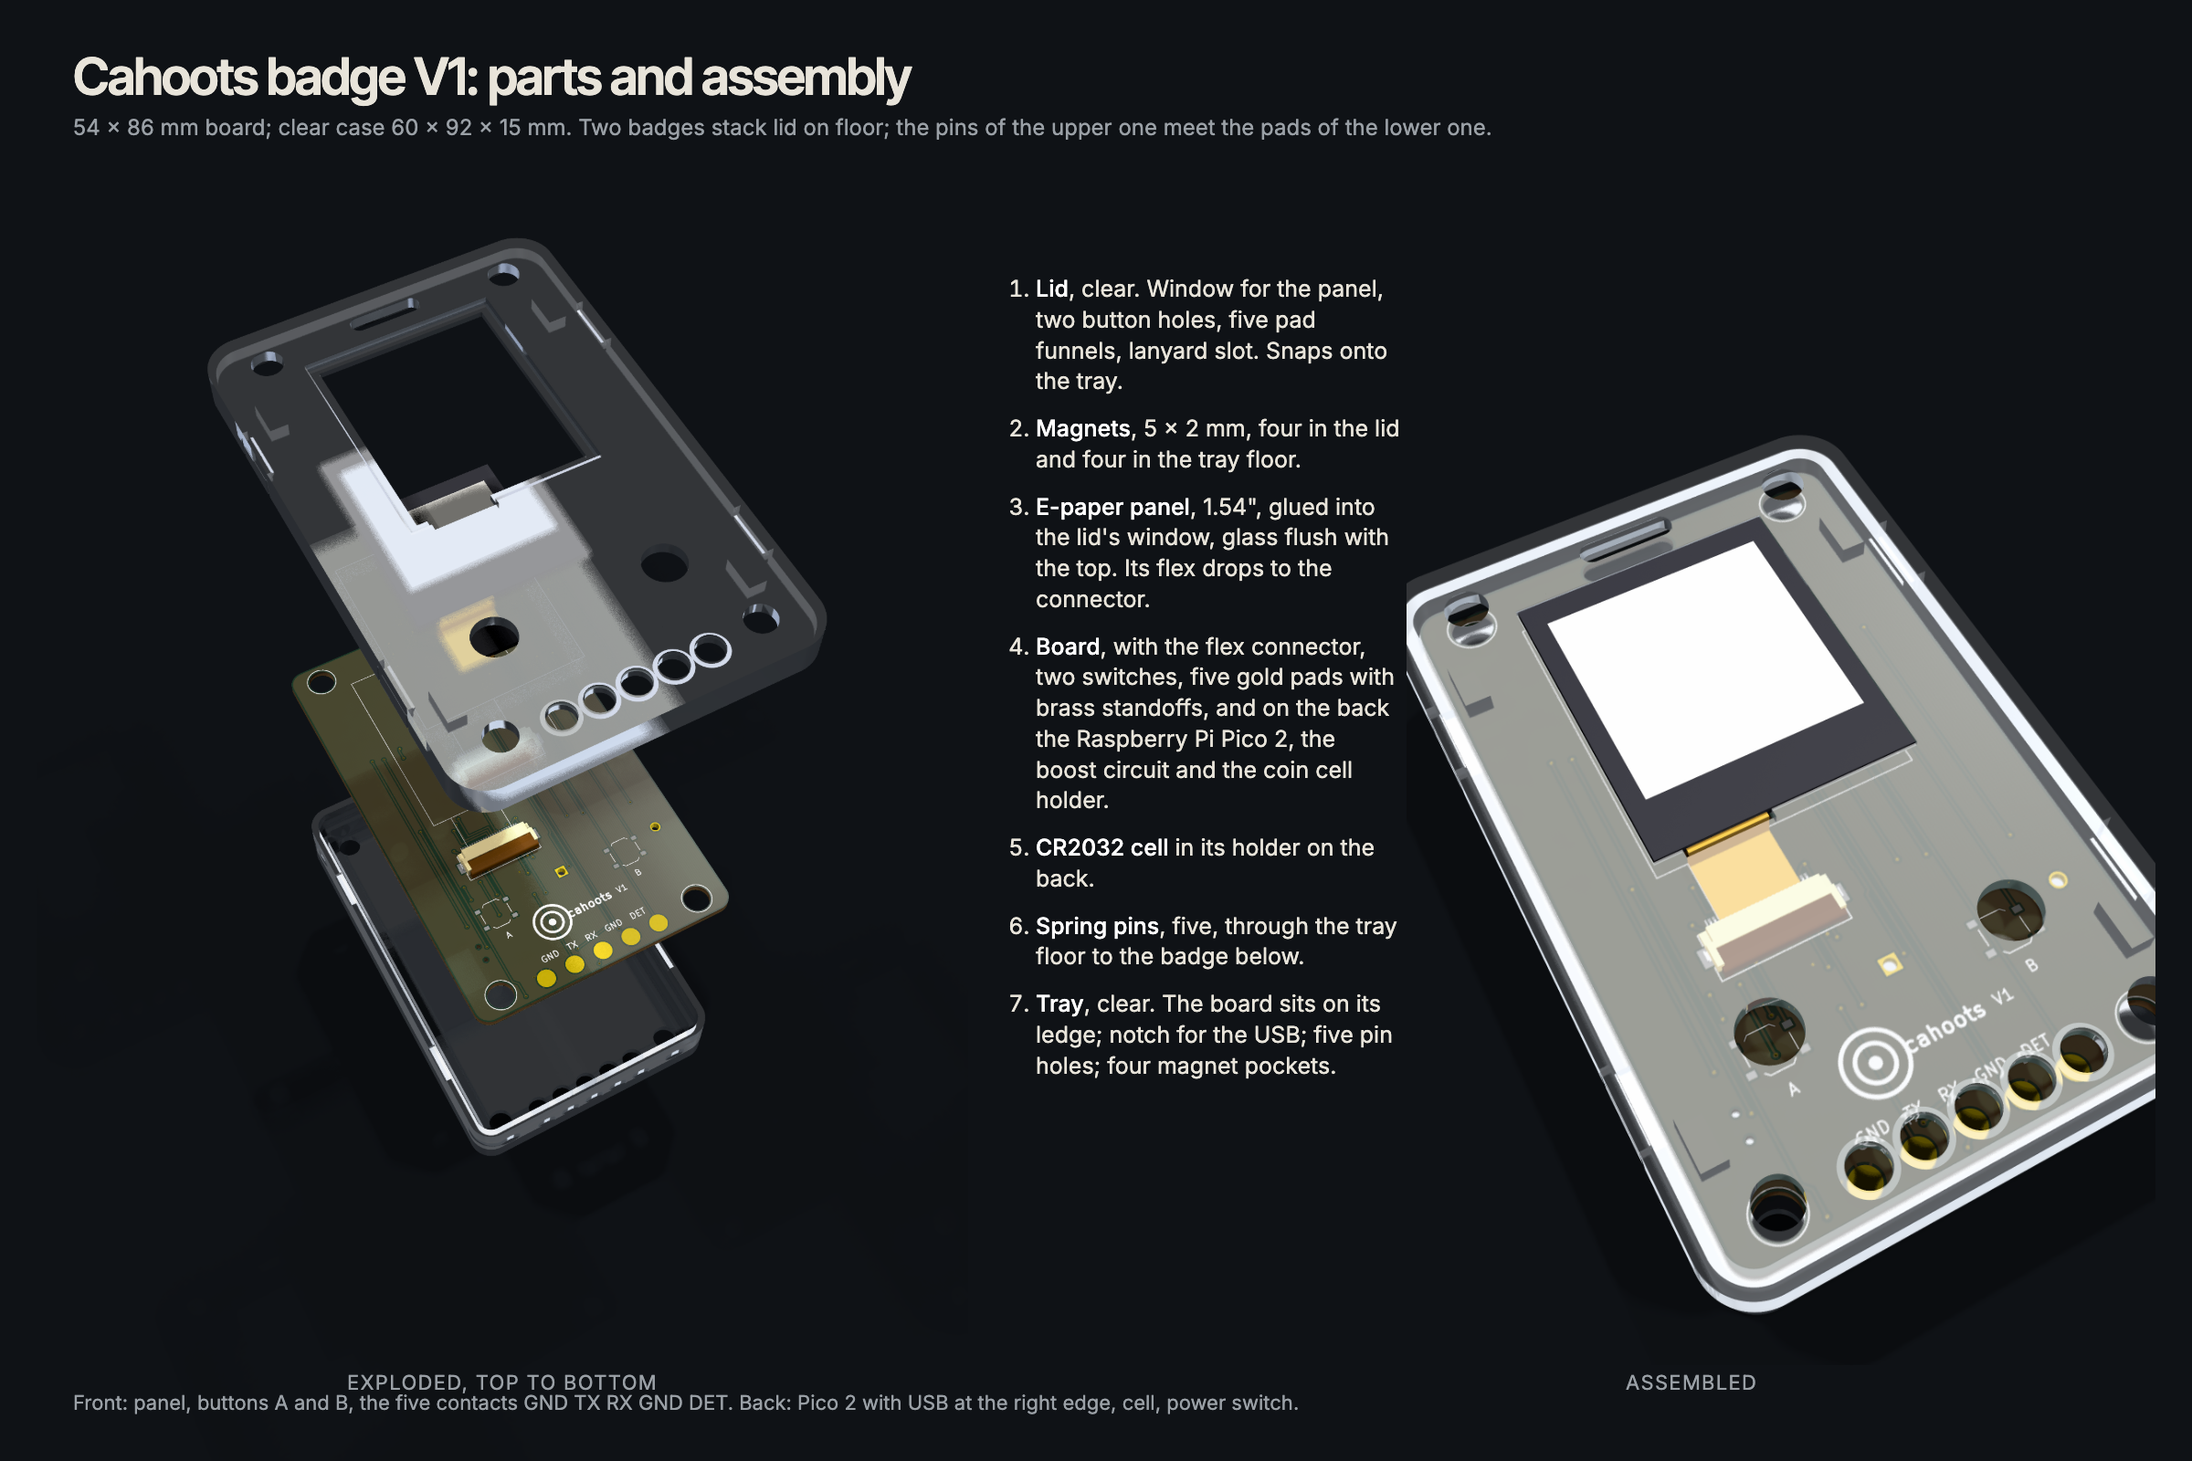
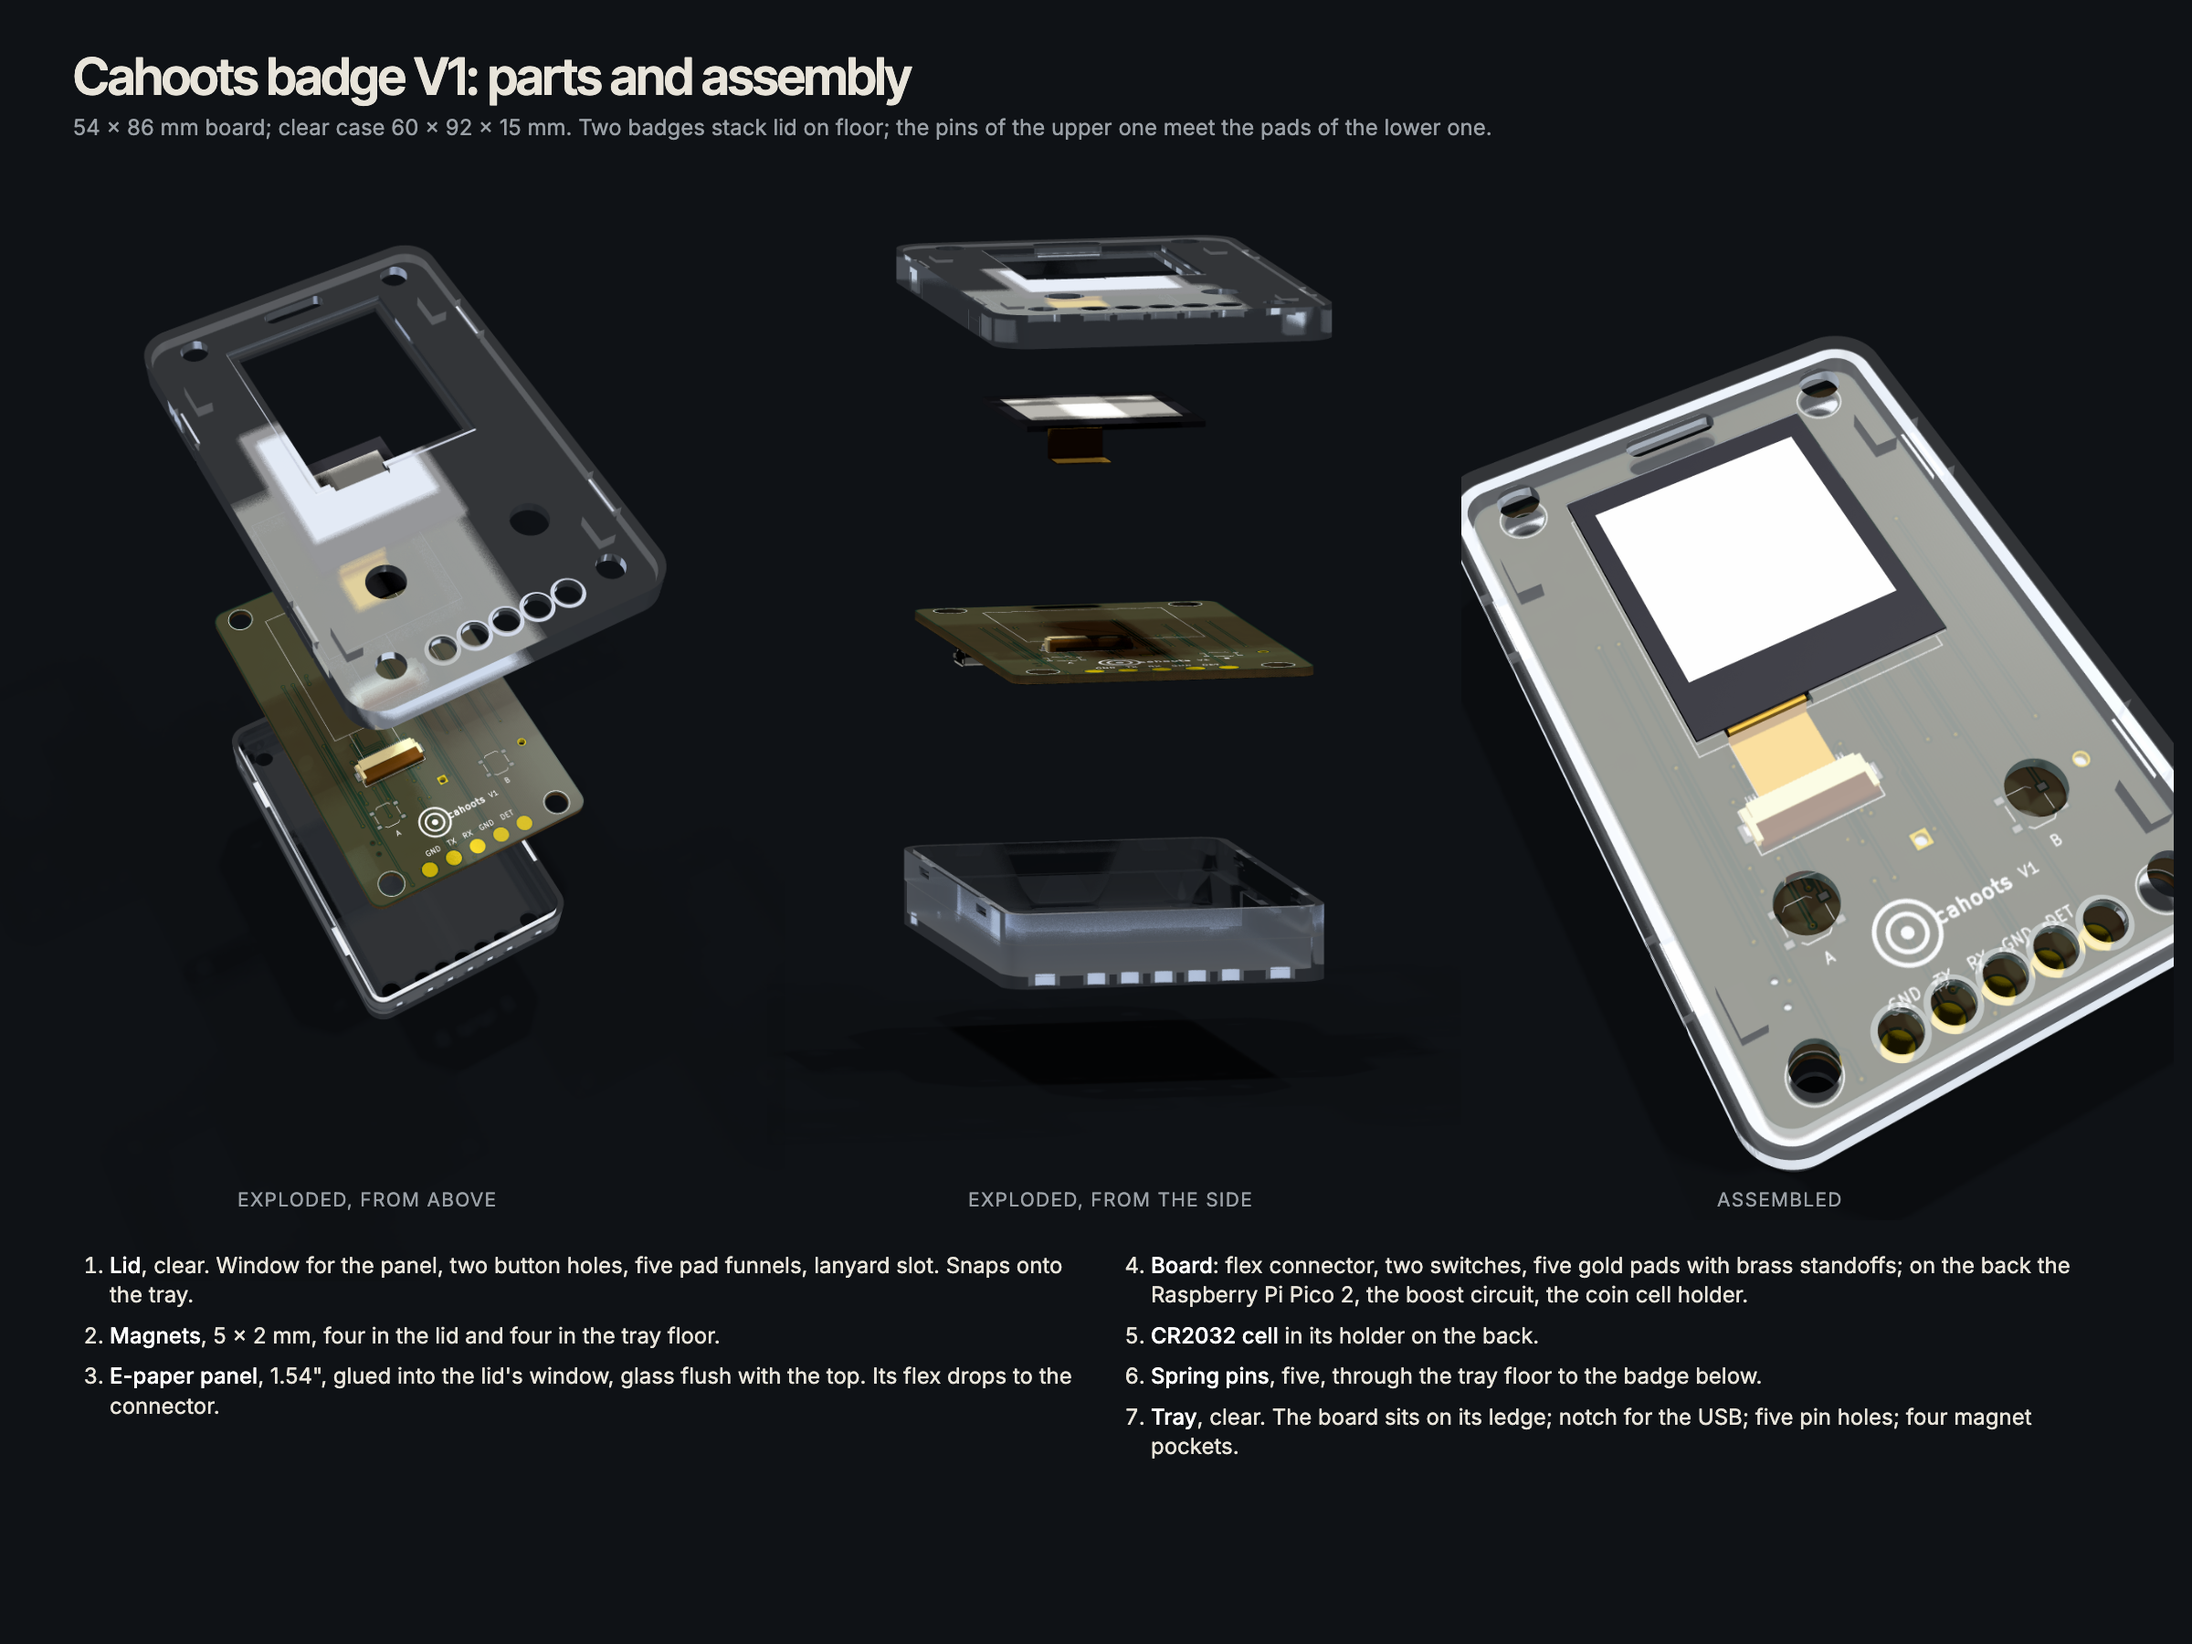
V1 assembly sheet: a second exploded view from the side, orthographic, with the list below

diff --git a/hardware/v1/explode.py b/hardware/v1/explode.py
@@ -36,6 +36,8 @@ for i in range(1, 6):
     add_model(f"K{i}", "pin.wrl", 0.0)
     add_model(f"P{i}", "standoff.wrl", 0.0)
 
+CAMERA = {"assembled": ("-30,0,28", "0.72", True), "exploded": ("-30,0,28", "0.33", True), "exploded-side": ("-82,0,12", "0.50", False)}
+
 def variant(name, lift):
     """Write a copy of the board with each part group lifted by lift[group] mm, and render it."""
     for fp in board.GetFootprints():
@@ -51,7 +53,8 @@ def variant(name, lift):
     path = os.path.join(HERE, f"v1-{name}.kicad_pcb")
     board.Save(path)
     out = os.path.join(tempfile.gettempdir(), f"cahoots-{name}.png")
-    subprocess.run([CLI, "pcb", "render", "--side", "top", "--perspective", "--rotate", "-30,0,28", "--zoom", "0.33" if name == "exploded" else "0.72",
+    rot, zoom, persp = CAMERA[name]
+    subprocess.run([CLI, "pcb", "render", "--side", "top"] + (["--perspective"] if persp else []) + ["--rotate", rot, "--zoom", zoom,
                     "--quality", "high", "--width", "1800", "--height", "2600", "--background", "transparent", "--floor", "-o", out, path],
                    check=True, capture_output=True)
     os.remove(path)
@@ -64,46 +67,48 @@ for fp in board.GetFootprints():
 
 assembled = variant("assembled", {})
 # world-space lifts, up positive; parts under the board go down
-exploded = variant("exploded", {"lid": 84, "magnet_lid": 104, "panel": 44, "standoff": 12, "cell": -26, "pin": -44, "magnet_tray": -88, "tray": -64})
+LIFT = {"lid": 84, "magnet_lid": 104, "panel": 44, "standoff": 12, "cell": -26, "pin": -44, "magnet_tray": -88, "tray": -64}
+exploded = variant("exploded", LIFT)
+side = variant("exploded-side", {"lid": 58, "magnet_lid": 72, "panel": 32, "standoff": 10, "cell": -18, "pin": -32, "magnet_tray": -62, "tray": -46})
 
 html = f'''<!doctype html><meta charset="utf-8">
 <link href="https://fonts.googleapis.com/css2?family=Inter+Tight:wght@600&family=Inter:wght@400;500&display=swap" rel="stylesheet">
 <style>
 html,body{{margin:0;background:#0b0d10}}
-.sheet{{position:relative;width:2400px;height:1600px;background:#0f1216;color:#E8E4DA;font:400 26px/1.35 Inter,system-ui,sans-serif}}
+.sheet{{position:relative;width:2400px;height:1800px;background:#0f1216;color:#E8E4DA;font:400 24px/1.35 Inter,system-ui,sans-serif}}
 h1{{position:absolute;left:80px;top:56px;margin:0;font:600 56px/1 "Inter Tight",sans-serif;letter-spacing:-0.03em}}
 .sub{{position:absolute;left:80px;top:124px;color:#9aa0a6;font-size:24px}}
 img{{position:absolute}}
-.ex{{left:40px;top:120px;width:1020px}}
-.as{{left:1540px;top:300px;width:820px}}
-.cap{{position:absolute;color:#9aa0a6;font-size:22px;letter-spacing:0.06em;text-transform:uppercase}}
-ol{{position:absolute;left:1090px;top:300px;margin:0;padding:0 0 0 44px;width:400px;font-size:25px}}
-ol li{{margin:0 0 18px}} ol b{{color:#fff;font-weight:500}}
-.foot{{position:absolute;left:80px;bottom:48px;color:#9aa0a6;font-size:22px}}
+.ex{{left:0px;top:150px;width:860px}}
+.side{{left:840px;top:150px;width:760px}}
+.as{{left:1600px;top:200px;width:780px}}
+.cap{{position:absolute;color:#9aa0a6;font-size:21px;letter-spacing:0.06em;text-transform:uppercase;top:1300px}}
+ol{{position:absolute;left:80px;top:1370px;margin:0;padding:0 0 0 40px;width:2200px;font-size:24px;columns:2;column-gap:80px}}
+ol li{{margin:0 0 12px;break-inside:avoid}} ol b{{color:#fff;font-weight:500}}
 </style>
 <div class="sheet">
 <h1>Cahoots badge V1: parts and assembly</h1>
 <div class="sub">54 × 86 mm board; clear case 60 × 92 × 15 mm. Two badges stack lid on floor; the pins of the upper one meet the pads of the lower one.</div>
-<img class="ex" src="{exploded}"><div class="cap" style="left:380px;top:1500px">Exploded, top to bottom</div>
+<img class="ex" src="{exploded}"><div class="cap" style="left:260px">Exploded, from above</div>
+<img class="side" src="{side}"><div class="cap" style="left:1060px">Exploded, from the side</div>
+<img class="as" src="{assembled}"><div class="cap" style="left:1880px">Assembled</div>
 <ol>
 <li><b>Lid</b>, clear. Window for the panel, two button holes, five pad funnels, lanyard slot. Snaps onto the tray.</li>
 <li><b>Magnets</b>, 5 × 2 mm, four in the lid and four in the tray floor.</li>
 <li><b>E-paper panel</b>, 1.54", glued into the lid's window, glass flush with the top. Its flex drops to the connector.</li>
-<li><b>Board</b>, with the flex connector, two switches, five gold pads with brass standoffs, and on the back the Raspberry Pi Pico 2, the boost circuit and the coin cell holder.</li>
+<li><b>Board</b>: flex connector, two switches, five gold pads with brass standoffs; on the back the Raspberry Pi Pico 2, the boost circuit, the coin cell holder.</li>
 <li><b>CR2032 cell</b> in its holder on the back.</li>
 <li><b>Spring pins</b>, five, through the tray floor to the badge below.</li>
 <li><b>Tray</b>, clear. The board sits on its ledge; notch for the USB; five pin holes; four magnet pockets.</li>
 </ol>
-<img class="as" src="{assembled}"><div class="cap" style="left:1780px;top:1500px">Assembled</div>
-<div class="foot">Front: panel, buttons A and B, the five contacts GND TX RX GND DET. Back: Pico 2 with USB at the right edge, cell, power switch.</div>
 </div>'''
 page = os.path.join(tempfile.gettempdir(), "cahoots-assembly.html")
 open(page, "w").write(html)
 out = os.path.join(HERE, "assembly.png")
 subprocess.run(["node", "-e", '''
 const { chromium } = require("playwright");
-(async () => { const b = await chromium.launch({ channel: "chrome" }); const p = await b.newPage({ viewport: { width: 2400, height: 1600 } });
+(async () => { const b = await chromium.launch({ channel: "chrome" }); const p = await b.newPage({ viewport: { width: 2400, height: 1800 } });
   await p.goto("file://" + process.argv[1]); await p.waitForTimeout(1500); await p.evaluate(() => document.fonts.ready);
-  await p.screenshot({ path: process.argv[2], clip: {x:0,y:0,width:2400,height:1600} }); await b.close(); })();''', page, out],
+  await p.screenshot({ path: process.argv[2], clip: {x:0,y:0,width:2400,height:1800} }); await b.close(); })();''', page, out],
                cwd=os.path.join(HERE, "..", "..", "video"), check=True)
 print("wrote", out)
